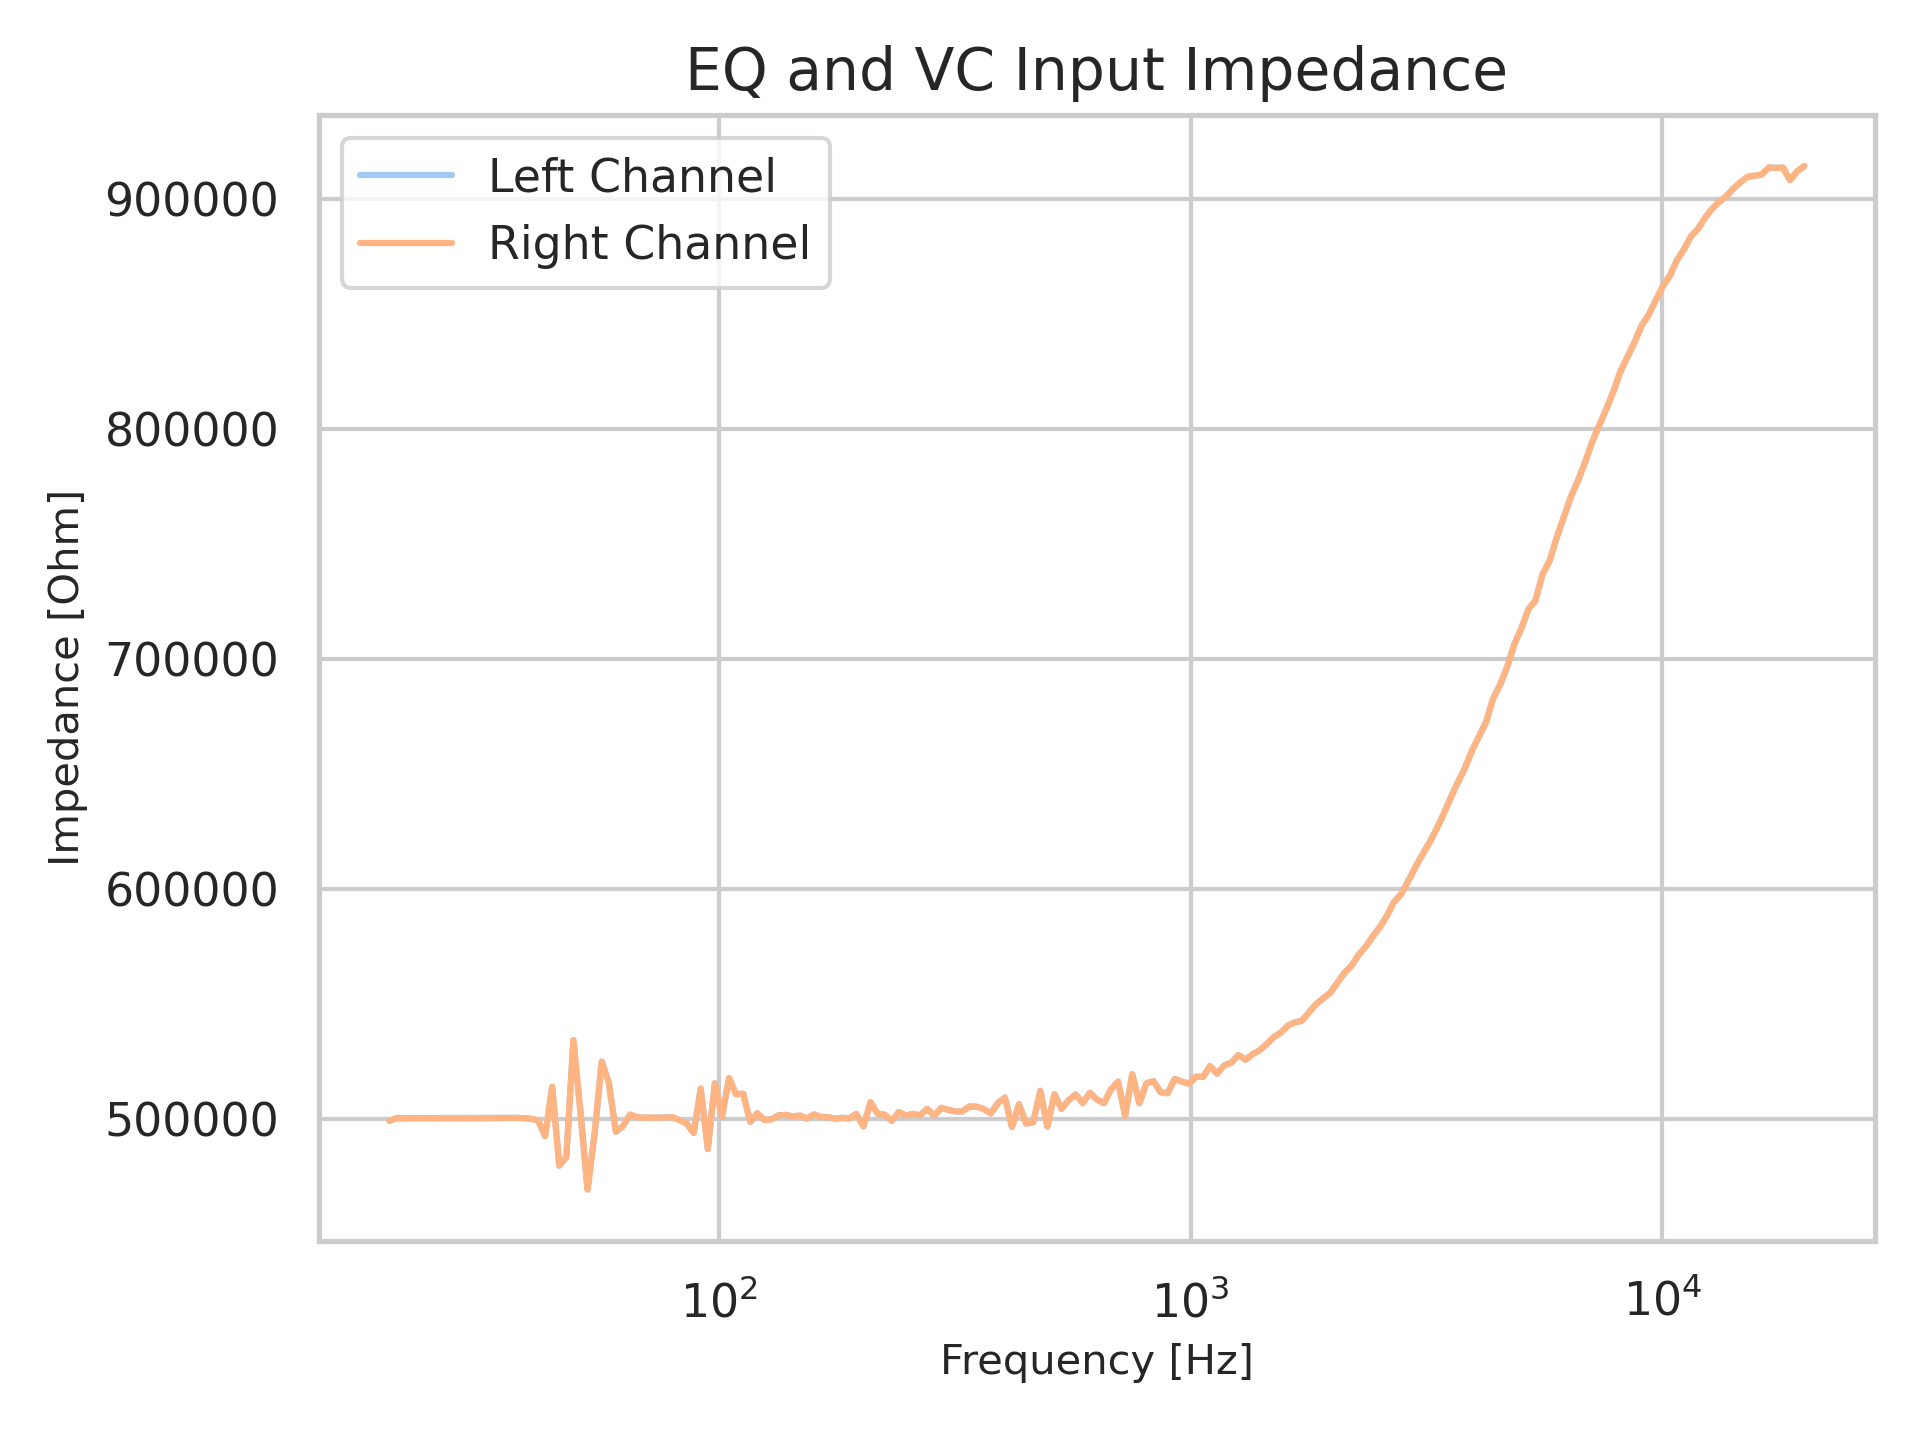
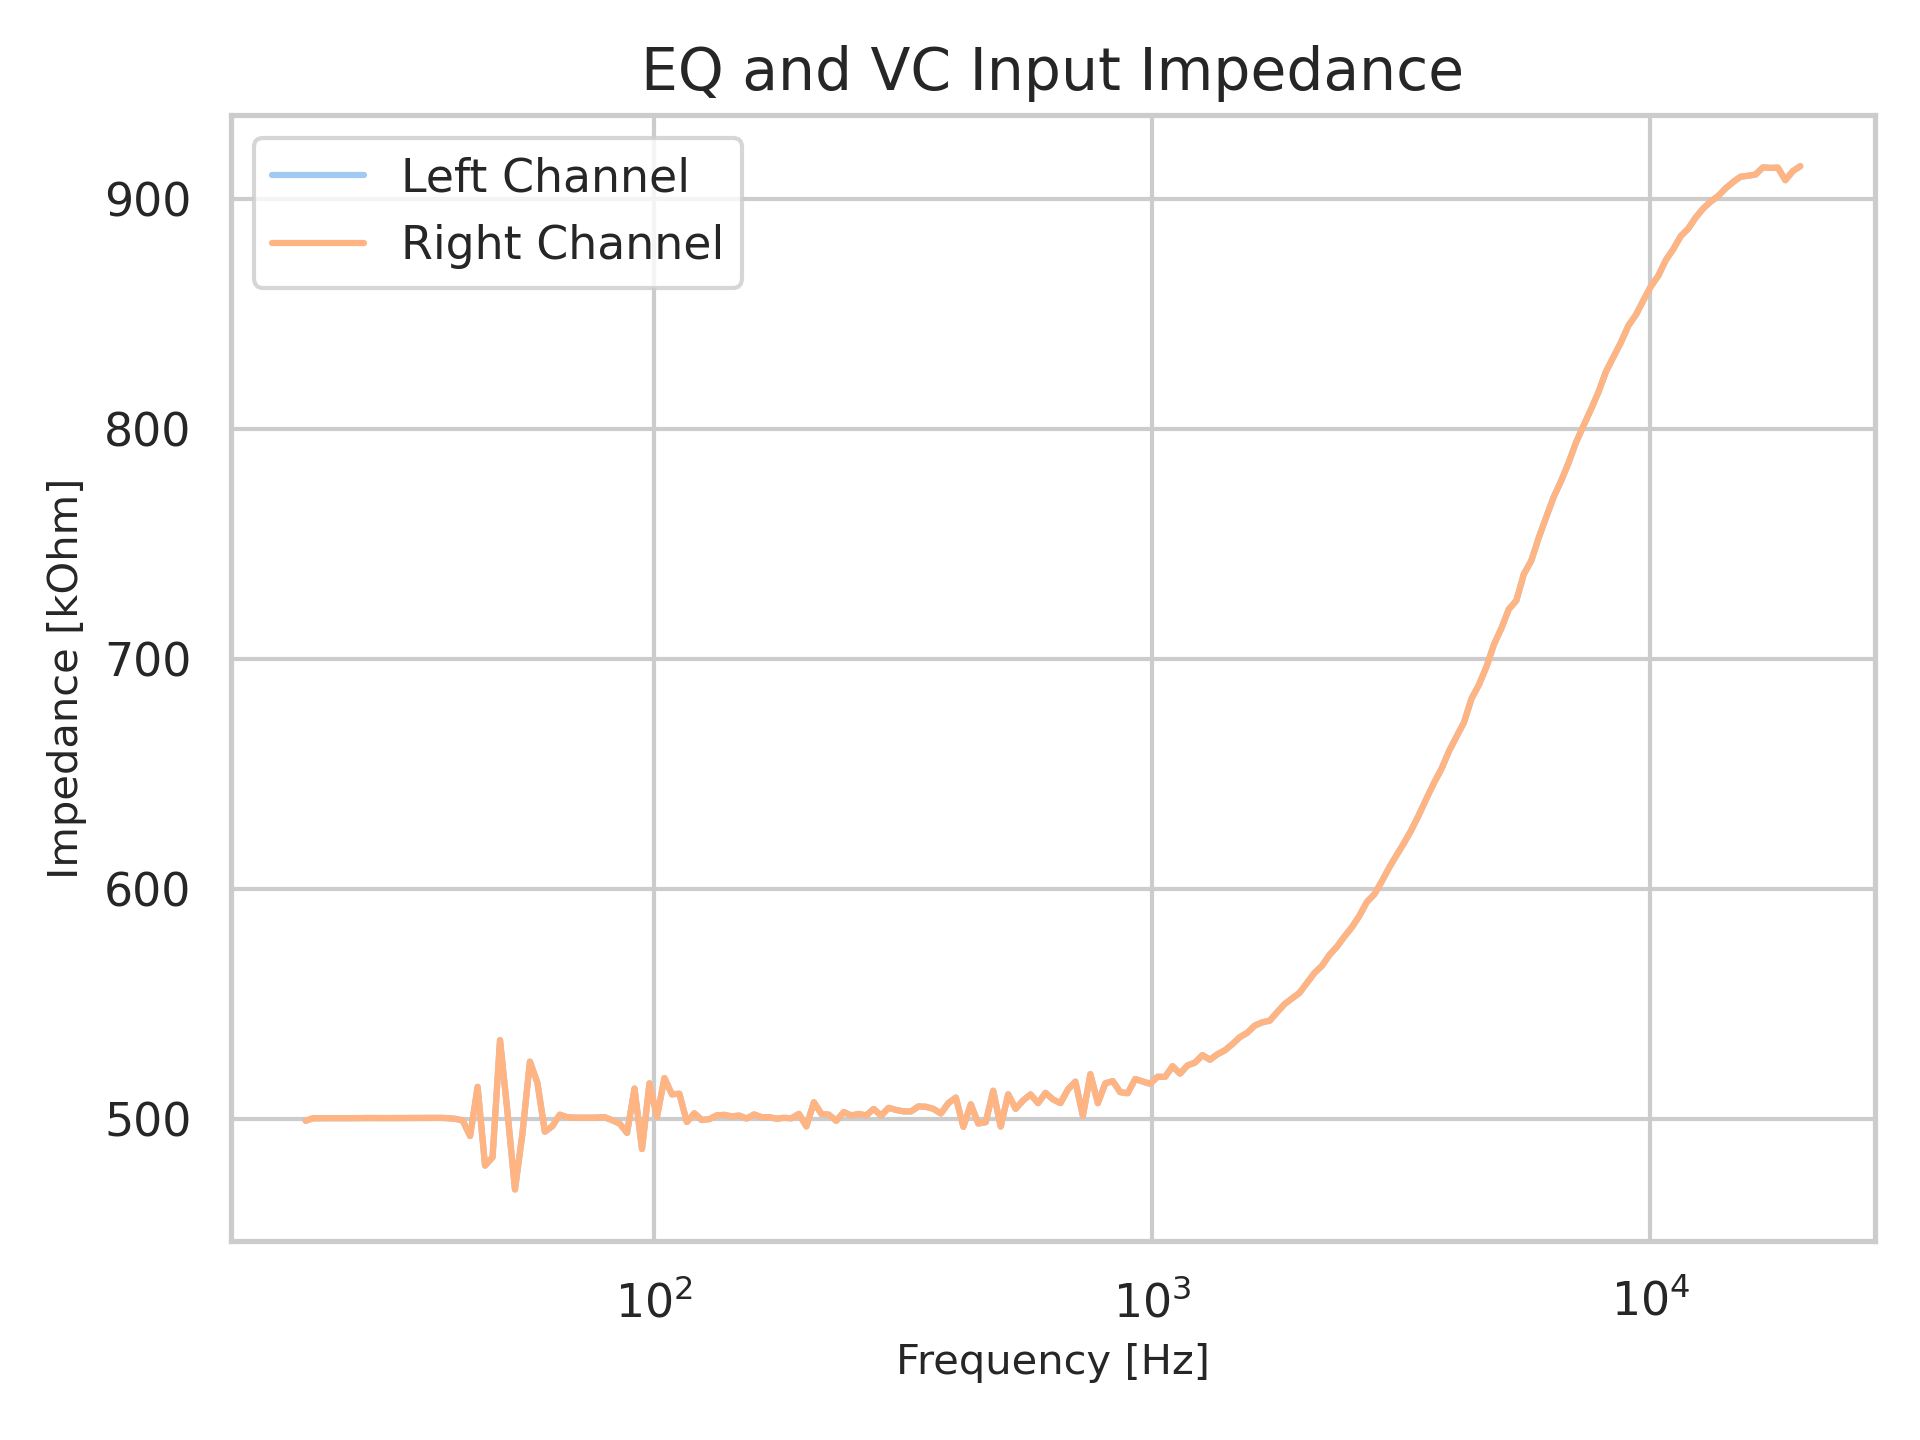
make input impedance kOhm instead of Ohm

diff --git a/integration_test/input_impedance_analogdiscovery.py b/integration_test/input_impedance_analogdiscovery.py
@@ -13,6 +13,7 @@ parser.add_argument("--title", help="Plot title", default="Plot Title")
 parser.add_argument("--outfile", help="Generated figure output filename (.png)", default=None)
 parser.add_argument("--quiet", help="Do not display generated figure", default=False, action="store_true")
 parser.add_argument("--logx", help="Make x-axis logarithmic", default=False, action="store_true")
+parser.add_argument("--logy", help="Make y-axis logarithmic", default=False, action="store_true")
 parser.add_argument("--autodetect", help="Automatically detect filenames", default=False, action="store_true")
 args = parser.parse_args()
 
@@ -30,7 +31,7 @@ title = args.title               # Plot title
 x_csv_column = "Frequency (Hz)"           # TSV file column name of x_axis (case sensitive)
 xlabel = "Frequency [Hz]"        # x axis label
 y_csv_column = "Trace |Z| (Ohm)"         # TSV file column name of y_axis (case sensitive)
-ylabel = "Impedance [Ohm]"           # y axis label
+ylabel = "Impedance [kOhm]"           # y axis label
 # data filenames
 df_L = df_R = None
 if args.autodetect:
@@ -77,8 +78,10 @@ plt.xlabel(xlabel)
 plt.ylabel(ylabel)
 if args.logx:
     ax.set_xscale("log")
-ax.plot(f, df_L[y_csv_column].to_numpy(), label="Left Channel")
-ax.plot(f, df_R[y_csv_column].to_numpy(), label="Right Channel")
+if args.logy:
+    ax.set_yscale("log")
+ax.plot(f, df_L[y_csv_column].to_numpy()/1e3, label="Left Channel")
+ax.plot(f, df_R[y_csv_column].to_numpy()/1e3, label="Right Channel")
 
 # Customize axes and grids for better aesthetics
 plt.grid(True)  # Show grid
